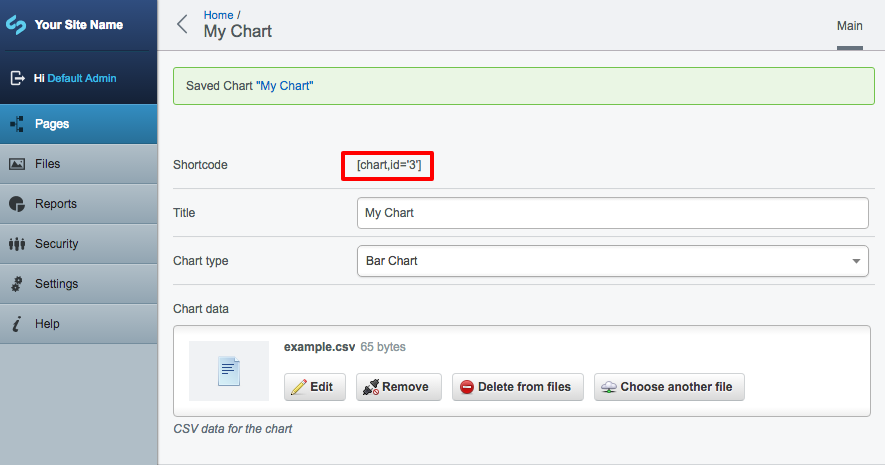
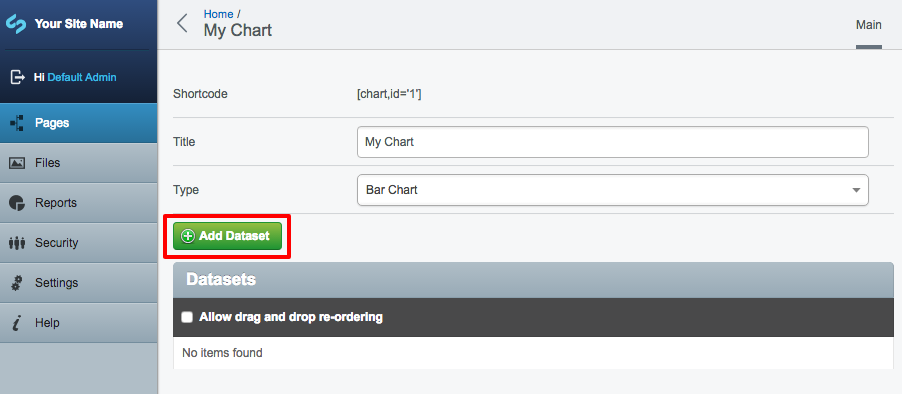
Update user guide

Changed region(s): [[0.0, 0.0, 1.0, 1.0], [0.3661, 0.3046, 0.9763, 0.5787], [0.3661, 0.2132, 0.4881, 0.2741]]

diff --git a/code/extension/ChartExtension.php b/code/extension/ChartExtension.php
@@ -28,7 +28,7 @@ class ChartExtension extends DataExtension
                 GridField::create(
                     'Charts',
                     'Charts',
-                    $this->getComponents('Charts'),
+                    $this->owner->getComponents('Charts'),
                     $config
                 ),
             ]

diff --git a/docs/en/user-guide.md b/docs/en/user-guide.md
@@ -1,38 +1,28 @@
 # User Guide
 
-## Chart Data
-
-Charts get their data from a CVS which you upload when creating a chart. The CSV requires the following column headings:
-
-- Label: Used for labels
-- Value: Used for totals
-
-If your CSV includes other columns, that's fine, they will just be ignored.
-
-Here is an example of a valid CSV file:
-
-```
-"Label","Value"
-"Apple",13
-"Banana",3
-"Cherry",6
-"Grapefruit",3
-```
-
 ## Creating a chart
 
-In the CMS, navigate to the page where you want the chart to appear, then select the "Charts" tab.
+In the CMS, navigate to the page where you want the chart to appear, and select the "Charts" tab.
 
 ![Chart Page](../images/user-guide-chart-page.png)
 
-Click the "Add Chart" button then fill in the fields provided.
+Each chart can have one or more datasets. Click the "Add Dataset" button to add a dataset.
 
 ![Add Chart](../images/user-guide-add-chart.png)
 
-Once you have created your chart, copy the shortcode highlighted above.
+You can add data to you dataset in two ways:
 
-![Add Chart](../images/user-guide-paste-shortcode.png)
+1. Use the "Add Data" button to add data one-by-one.
+2. Use the "Import CSV" button to import data from a CSV file.
 
-Paste the shortcode into a content area, where you want the chart to appear on the page.
+When importing data from CSV, you can choose which columns are mapped to "label" and "value" in the CMS, so don't worry if your data doesn't have these columns.
 
-Save the page and your chart will appear.
+![Edit Dataset](../images/user-guide-dataset.png)
+
+Once you've finished adding data, navigate back to the chart view, and copy the shortcode.
+
+![Copy Shortcode](../images/user-guide-shortcode.png)
+
+Paste the shortcode into a content area, save the page, and your chart will appear on the page.
+
+![Copy Shortcode](../images/user-guide-shortcode-paste.png)
